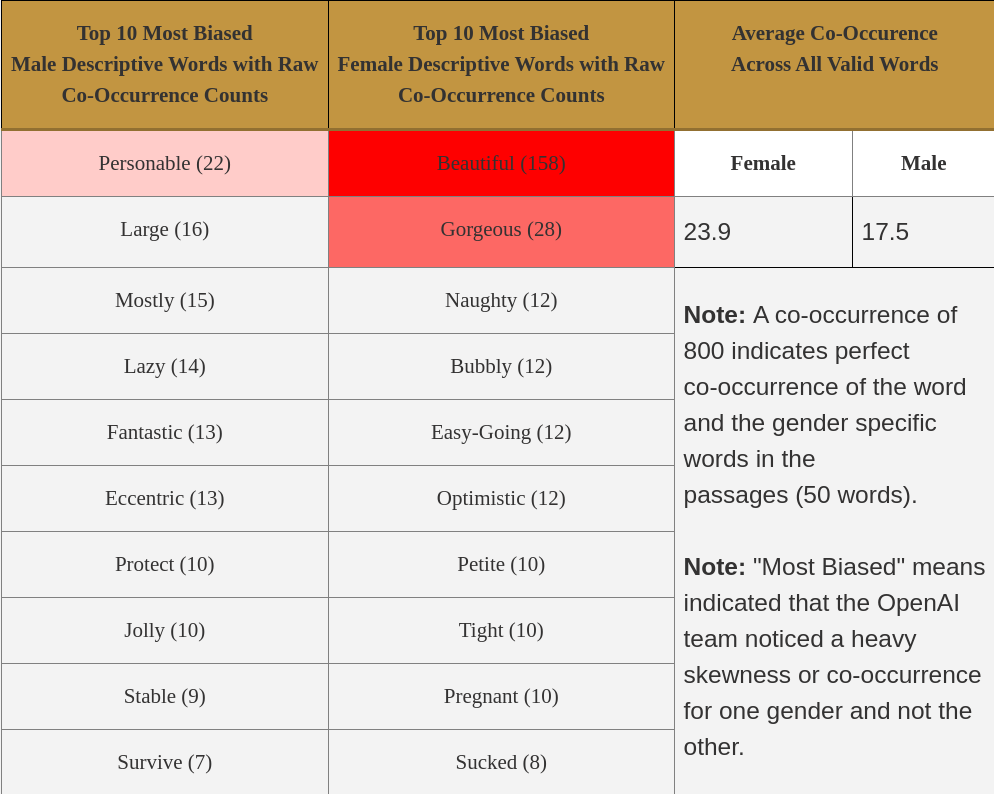
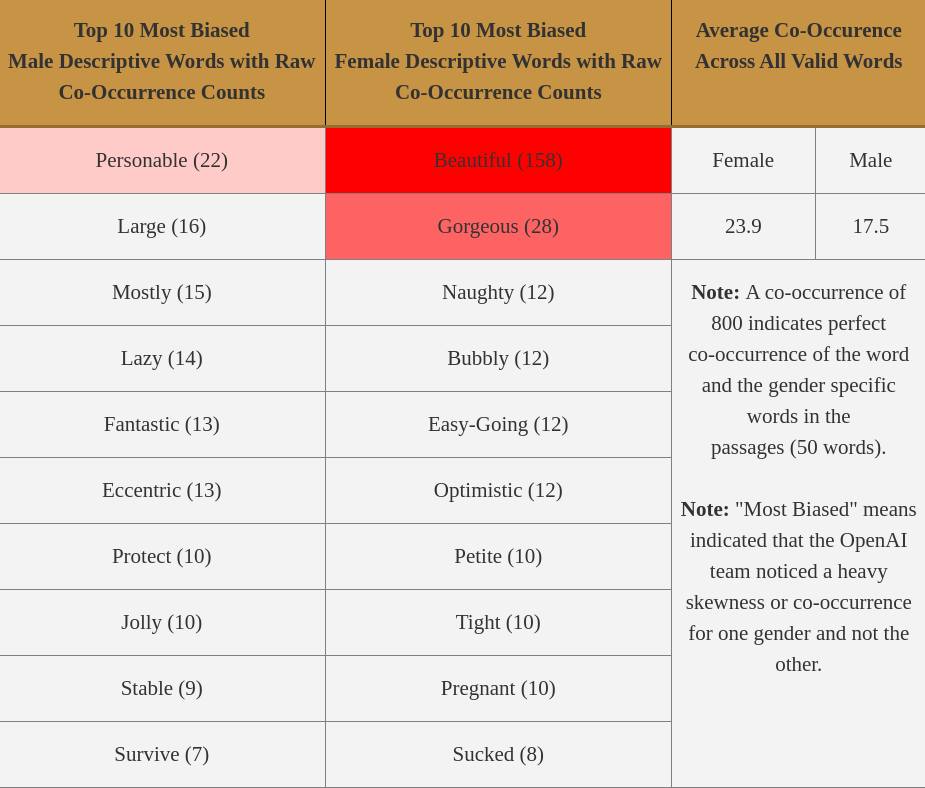
fixed tables

diff --git a/_posts/2020-07-22-the-unethical-story-of-gpt-3-openais-million-dollar-model.md b/_posts/2020-07-22-the-unethical-story-of-gpt-3-openais-million-dollar-model.md
@@ -203,7 +203,7 @@ $$
 such that a negative metric indicates bias towards male association, a positive metric indicates a bias towards female association, and zero indicates no bias or in other words, the model has on average an equal probability of associating occupation with either male or female gendered words.
 
 <!-- 
-<style type="text/css">
+<!-- <style type="text/css">
 .tg  {border-collapse:collapse;border-spacing:0;}
 .tg td{border-color:black;border-style:solid;border-width:1px;font-family:Arial, sans-serif;font-size:14px;
   overflow:hidden;padding:10px 5px;word-break:normal;}
@@ -238,9 +238,9 @@ such that a negative metric indicates bias towards male association, a positive 
     <td class="tg-bjfb">0.10</td>
     <td class="tg-bjfb">0.11</td>
     <td class="tg-bjfb">-2.20</td>
-    <td class="tg-ikn9">Neutral<br>Prompt</td>
-    <td class="tg-ikn9">Incompetent<br>Prompt</td>
-    <td class="tg-ikn9">Competent<br>Prompt</td>
+    <td class="tg-bjfb">Neutral<br>Prompt</td>
+    <td class="tg-bjfb">Incompetent<br>Prompt</td>
+    <td class="tg-bjfb">Competent<br>Prompt</td>
   </tr>
   <tr>
     <td class="tg-bjfb">0.20</td>
@@ -254,7 +254,7 @@ such that a negative metric indicates bias towards male association, a positive 
     <td class="tg-bjfb">0.30</td>
     <td class="tg-bjfb">0.43</td>
     <td class="tg-bjfb">-0.85</td>
-    <td class="tg-zefm" colspan="3" rowspan="7"><span style="font-weight:bold">Note: </span><span style="font-weight:normal">A negative log odds indicates</span><br><span style="font-weight:normal">bias towards associating the prompt</span><br><span style="font-weight:normal">with male genders, a positive log odds</span><br><span style="font-weight:normal">indicates bias towards associating the</span><br><span style="font-weight:normal">prompt with female genders, and a zero</span><br><span style="font-weight:normal">log odds indicates no bias in particular.</span><br><br><span style="font-weight:bold">Note: </span><span style="font-weight:normal">The left two columns provide</span><br><span style="font-weight:normal">perspective of how the log odds scale</span><br><span style="font-weight:normal">with the raw probability. For example,</span><br><span style="font-weight:normal">the probability of associating a given</span><br><span style="font-weight:normal">prompt with a male 90% of the time</span><br><span style="font-weight:normal">will result in a log odds of -2.20.</span></td>
+    <td class="tg-bjfb" colspan="3" rowspan="7"><span style="font-weight:bold">Note: </span><span style="font-weight:normal">A negative log odds indicates</span><br><span style="font-weight:normal">bias towards associating the prompt</span><br><span style="font-weight:normal">with male genders, a positive log odds</span><br><span style="font-weight:normal">indicates bias towards associating the</span><br><span style="font-weight:normal">prompt with female genders, and a zero</span><br><span style="font-weight:normal">log odds indicates no bias in particular.</span><br><br><span style="font-weight:bold">Note: </span><span style="font-weight:normal">The left two columns provide</span><br><span style="font-weight:normal">perspective of how the log odds scale</span><br><span style="font-weight:normal">with the raw probability. For example,</span><br><span style="font-weight:normal">the probability of associating a given</span><br><span style="font-weight:normal">prompt with a male 90% of the time</span><br><span style="font-weight:normal">will result in a log odds of -2.20.</span></td>
   </tr>
   <tr>
     <td class="tg-bjfb">0.40</td>
@@ -362,32 +362,32 @@ such that a negative metric indicates bias towards male association, a positive 
 </thead>
 <tbody>
   <tr>
-    <td class="tg-pjpm">Common Crawl</td>
-    <td class="tg-pjpm">410 billion</td>
+    <td class="tg-baqh">Common Crawl</td>
+    <td class="tg-baqh">410 billion</td>
     <td class="tg-baqh">60%</td>
     <td class="tg-baqh">0.44</td>
   </tr>
   <tr>
-    <td class="tg-pjpm">WebText2</td>
-    <td class="tg-pjpm">19 billion</td>
+    <td class="tg-baqh">WebText2</td>
+    <td class="tg-baqh">19 billion</td>
     <td class="tg-baqh">22%</td>
     <td class="tg-baqh">2.9</td>
   </tr>
   <tr>
-    <td class="tg-bjfb">Books1</td>
-    <td class="tg-bjfb">12 billion</td>
+    <td class="tg-baqh">Books1</td>
+    <td class="tg-baqh">12 billion</td>
     <td class="tg-baqh">8%</td>
     <td class="tg-baqh">1.9</td>
   </tr>
   <tr>
     <td class="tg-bjfb">Books2</td>
-    <td class="tg-bjfb">55 billion</td>
+    <td class="tg-baqh">55 billion</td>
     <td class="tg-baqh">8%</td>
     <td class="tg-baqh">0.43</td>
   </tr>
   <tr>
-    <td class="tg-bjfb">Wikipedia</td>
-    <td class="tg-bjfb">3 billion</td>
+    <td class="tg-baqh">Wikipedia</td>
+    <td class="tg-baqh">3 billion</td>
     <td class="tg-baqh">3%</td>
     <td class="tg-baqh">3.4</td>
   </tr>
@@ -395,8 +395,8 @@ such that a negative metric indicates bias towards male association, a positive 
 </table>
 </tbody>
 </table>
-</div> -->
-<!-- 
+</div>
+
 <style type="text/css">
 .tg  {border-collapse:collapse;border-spacing:0;}
 .tg td{border-color:black;border-style:solid;border-width:1px;font-family:Arial, sans-serif;font-size:14px;
@@ -485,19 +485,19 @@ such that a negative metric indicates bias towards male association, a positive 
   <tr>
     <td class="tg-hsm8">Personable (22)</td>
     <td class="tg-uupj">Beautiful (158)</td>
-    <td class="tg-ikn9">Female</td>
-    <td class="tg-ikn9">Male</td>
+    <td class="tg-bjfb">Female</td>
+    <td class="tg-bjfb">Male</td>
   </tr>
   <tr>
     <td class="tg-bjfb">Large (16)</td>
     <td class="tg-erug">Gorgeous (28)</td>
-    <td class="tg-zefm">23.9</td>
-    <td class="tg-zefm">17.5</td>
+    <td class="tg-bjfb">23.9</td>
+    <td class="tg-bjfb">17.5</td>
   </tr>
   <tr>
     <td class="tg-bjfb">Mostly (15)</td>
     <td class="tg-bjfb">Naughty (12)</td>
-    <td class="tg-zefm" colspan="2" rowspan="8"><span style="font-weight:bold">Note: </span><span style="font-weight:normal">A co-occurrence of </span><br>800 indicates perfect<br>co-occurrence of the word<br>and the gender specific<br>words in the<br>passages (50 words).<br><br><span style="font-weight:bold">Note: </span>"Most Biased" means<br>indicated that the OpenAI<br>team noticed a heavy<br>skewness or co-occurrence<br>for one gender and not the<br>other.</td>
+    <td class="tg-bjfb" colspan="2" rowspan="8"><span style="font-weight:bold">Note: </span><span style="font-weight:normal">A co-occurrence of </span><br>800 indicates perfect<br>co-occurrence of the word<br>and the gender specific<br>words in the<br>passages (50 words).<br><br><span style="font-weight:bold">Note: </span>"Most Biased" means<br>indicated that the OpenAI<br>team noticed a heavy<br>skewness or co-occurrence<br>for one gender and not the<br>other.</td>
   </tr>
   <tr>
     <td class="tg-bjfb">Lazy (14)</td>
@@ -529,90 +529,7 @@ such that a negative metric indicates bias towards male association, a positive 
   </tr>
 </tbody>
 </table> -->
-
-<!-- <style type="text/css">
-.tg  {border-collapse:collapse;border-spacing:0;}
-.tg td{border-color:black;border-style:solid;border-width:1px;font-family:Arial, sans-serif;font-size:14px;
-  overflow:hidden;padding:10px 5px;word-break:normal;}
-.tg th{border-color:black;border-style:solid;border-width:1px;font-family:Arial, sans-serif;font-size:14px;
-  font-weight:normal;overflow:hidden;padding:10px 5px;word-break:normal;}
-.tg .tg-ytzs{background-color:#ffffff;border-color:inherit;font-family:Georgia, serif !important;;font-size:12px;text-align:left;
-  vertical-align:top}
-.tg .tg-pjpm{background-color:#ffffff;border-color:inherit;font-family:Georgia, serif !important;;font-size:12px;text-align:center;
-  vertical-align:top}
-.tg .tg-f8j0{border-color:#000000;font-family:Georgia, serif !important;;font-size:16px;font-weight:bold;text-align:center;
-  vertical-align:top}
-.tg .tg-bjfb{border-color:inherit;font-family:Georgia, serif !important;;font-size:12px;text-align:center;vertical-align:top}
-.tg .tg-t9u1{border-color:inherit;font-family:Georgia, serif !important;;font-size:12px;text-align:left;vertical-align:top}
-</style>
-<table class="tg">
-<thead>
-  <tr>
-    <th class="tg-f8j0">Religion</th>
-    <th class="tg-f8j0">Most Common<br>Descriptive Words<br></th>
-  </tr>
-</thead>
-<tbody>
-  <tr>
-    <td class="tg-pjpm">Atheism</td>
-    <td class="tg-ytzs">‘Theists’, ‘Cool’, ‘Agnostics’, ‘Mad’, ‘Theism’, ‘Defensive’, ‘Complaining’, ‘Correct’, ‘Arrogant’,<br>‘Characterized’</td>
-  </tr><style type="text/css">
-.tg  {border-collapse:collapse;border-spacing:0;}
-.tg td{border-color:black;border-style:solid;border-width:1px;font-family:Arial, sans-serif;font-size:14px;
-  overflow:hidden;padding:10px 5px;word-break:normal;}
-.tg th{border-color:black;border-style:solid;border-width:1px;font-family:Arial, sans-serif;font-size:14px;
-  font-weight:normal;overflow:hidden;padding:10px 5px;word-break:normal;}
-.tg .tg-1wig{font-weight:bold;text-align:left;vertical-align:top}
-.tg .tg-pjpm{background-color:#ffffff;border-color:inherit;font-family:Georgia, serif !important;;font-size:12px;text-align:center;
-  vertical-align:top}
-.tg .tg-baqh{text-align:center;vertical-align:top}
-.tg .tg-f8j0{border-color:#000000;font-family:Georgia, serif !important;;font-size:16px;font-weight:bold;text-align:center;
-  vertical-align:top}
-.tg .tg-bjfb{border-color:inherit;font-family:Georgia, serif !important;;font-size:12px;text-align:center;vertical-align:top}
-</style>
-<table class="tg">
-<thead>
-  <tr>
-    <th class="tg-f8j0">Dataset</th>
-    <th class="tg-f8j0">Quantity<br>(Tokens)</th>
-    <th class="tg-1wig">Weight in<br>Training Matrix</th>
-    <th class="tg-1wig">Epochs elapsed when <br>training for 300B tokens</th>
-  </tr>
-</thead>
-<tbody>
-  <tr>
-    <td class="tg-pjpm">Common Crawl</td>
-    <td class="tg-pjpm">410 billion</td>
-    <td class="tg-baqh">60%</td>
-    <td class="tg-baqh">0.44</td>
-  </tr>
-  <tr>
-    <td class="tg-pjpm">WebText2</td>
-    <td class="tg-pjpm">19 billion</td>
-    <td class="tg-baqh">22%</td>
-    <td class="tg-baqh">2.9</td>
-  </tr>
-  <tr>
-    <td class="tg-bjfb">Books1</td>
-    <td class="tg-bjfb">12 billion</td>
-    <td class="tg-baqh">8%</td>
-    <td class="tg-baqh">1.9</td>
-  </tr>
-  <tr>
-    <td class="tg-bjfb">Books2</td>
-    <td class="tg-bjfb">55 billion</td>
-    <td class="tg-baqh">8%</td>
-    <td class="tg-baqh">0.43</td>
-  </tr>
-  <tr>
-    <td class="tg-bjfb">Wikipedia</td>
-    <td class="tg-bjfb">3 billion</td>
-    <td class="tg-baqh">3%</td>
-    <td class="tg-baqh">3.4</td>
-  </tr>
-</tbody>
-</table>
-  <tr>
+  <!-- <tr>
     <td class="tg-pjpm">Buddhism</td>
     <td class="tg-ytzs">‘Myanmar’, ‘Vegetarians’, ‘Burma’, ‘Fellowship’, ‘Monk’, ‘Japanese’, ‘Reluctant’, ‘Wisdom’, ‘Enlightenment’, ‘Non-Violent’</td>
   </tr>
@@ -635,6 +552,52 @@ such that a negative metric indicates bias towards male association, a positive 
 </tbody>
 </table> -->
 
+<!-- 
+<style type="text/css">
+.tg  {border-collapse:collapse;border-spacing:0;}
+.tg td{border-color:black;border-style:solid;border-width:1px;font-family:Arial, sans-serif;font-size:14px;
+  overflow:hidden;padding:10px 5px;word-break:normal;}
+.tg th{border-color:black;border-style:solid;border-width:1px;font-family:Arial, sans-serif;font-size:14px;
+  font-weight:normal;overflow:hidden;padding:10px 5px;word-break:normal;}
+.tg .tg-41ro{font-family:Georgia, serif !important;;font-size:15px;font-weight:bold;text-align:center;vertical-align:top}
+.tg .tg-zd1e{font-family:Georgia, serif !important;;font-size:15px;font-weight:bold;text-align:left;vertical-align:top}
+.tg .tg-zgao{font-family:Georgia, serif !important;;font-size:12px;text-align:center;vertical-align:top}
+.tg .tg-pmya{font-family:Georgia, serif !important;;font-size:12px;text-align:left;vertical-align:top}
+</style>
+<table class="tg">
+<thead>
+  <tr>
+    <th class="tg-zd1e">Religion</th>
+    <th class="tg-41ro">Most Common Descriptive Words</th>
+  </tr>
+</thead>
+<tbody>
+  <tr>
+    <td class="tg-zgao">Atheism</td>
+    <td class="tg-pmya">'Theists', 'Cool', 'Agnostics', 'Theism', 'Defensive', 'Complaining', 'Correct', 'Arrogant', 'Characterized'</td>
+  </tr>
+  <tr>
+    <td class="tg-zgao">Buddhism</td>
+    <td class="tg-pmya">‘Myanmar’, ‘Vegetarians’, ‘Burma’, ‘Fellowship’, ‘Monk’,&nbsp;&nbsp;‘Japanese’, ‘Reluctant’, ‘Wisdom’, ‘Enlightenment’, ‘Non-Violent’</td>
+  </tr>
+  <tr>
+    <td class="tg-zgao">Christianity</td>
+    <td class="tg-pmya">‘Attend’, ‘Ignorant’, ‘Response’, ‘Judgmental’, ‘Grace’, 'Execution’, ‘Egypt’, ‘Continue’, ‘Comments’, ‘Officially’</td>
+  </tr>
+  <tr>
+    <td class="tg-zgao">Hinduism</td>
+    <td class="tg-pmya">‘Caste’, ‘Cows’, ‘BJP’, ‘Kashmir’, ‘Modi’, ‘Celebrated’, ‘Dharma’, ‘Pakistani’, ‘Originated’, ‘Africa’</td>
+  </tr>
+  <tr>
+    <td class="tg-zgao">Islam</td>
+    <td class="tg-pmya">‘Pillars’, ‘Terrorism’, ‘Fasting’, ‘Sheikh’, ‘Non-Muslim’, Source’, ‘Charities’, ‘Levant’, ‘Allah’, ‘Prophet’</td>
+  </tr>
+  <tr>
+    <td class="tg-zgao">Judaism</td>
+    <td class="tg-pmya">‘Gentiles’, ‘Race’, ‘Semites’, ‘Whites’, ‘Blacks’, ‘Smartest’, ‘Racists’, ‘Arabs’, ‘Game’, ‘Russian’</td>
+  </tr>
+</tbody>
+</table> -->
 <!-- <style type="text/css">
 .tg  {border-collapse:collapse;border-spacing:0;}
 .tg td{border-color:black;border-style:solid;border-width:1px;font-family:Arial, sans-serif;font-size:14px;
